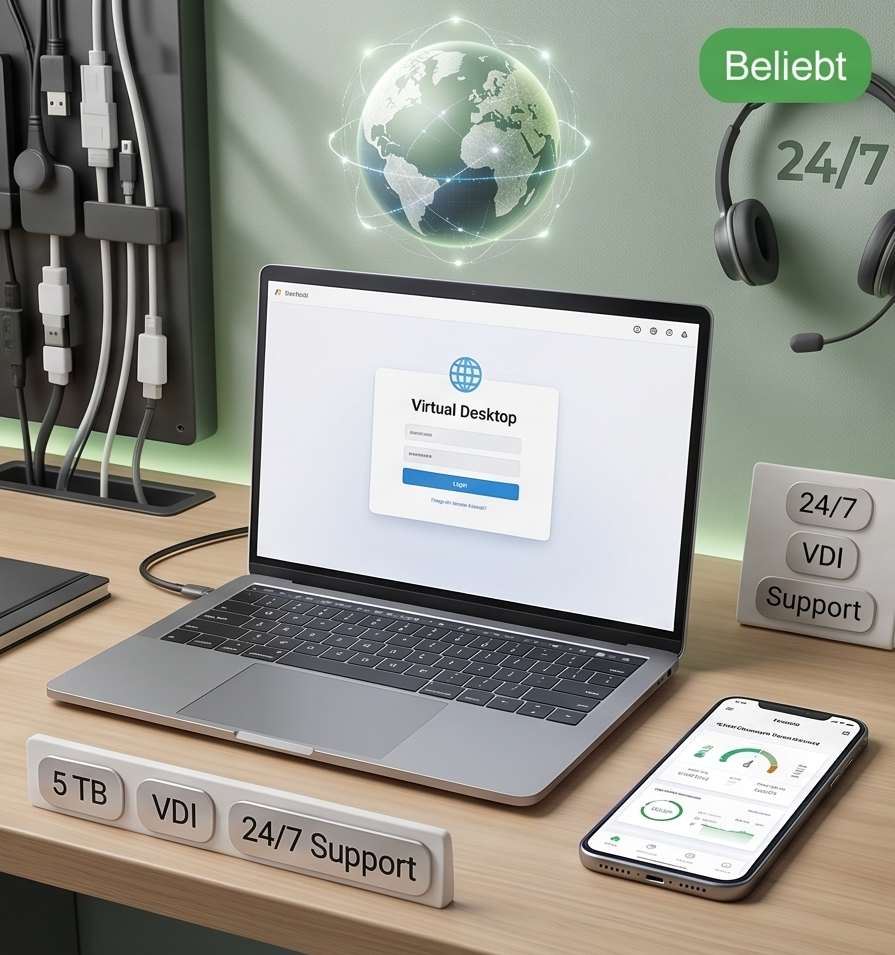
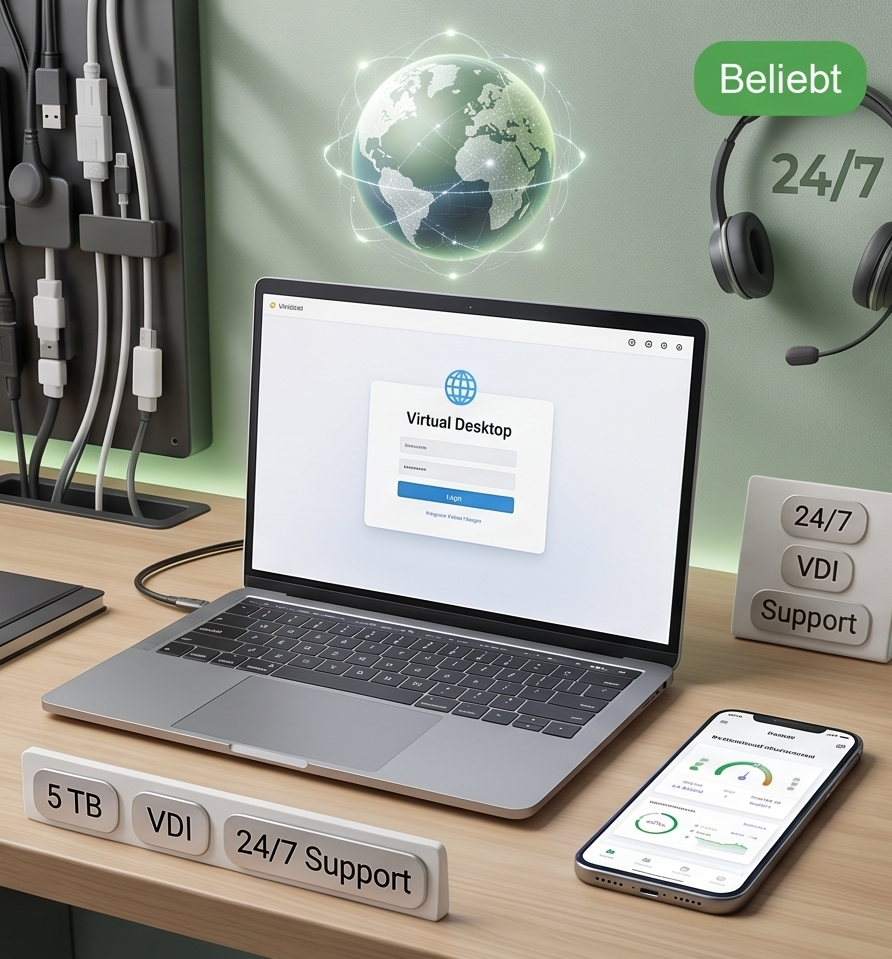
passt

diff --git a/Produkte.html b/Produkte.html
@@ -80,7 +80,7 @@
         <h2 class="category-title" id="server">🖥 Server &amp; Hardware</h2>
         <div class="catalog-grid" data-category="server">
             <div class="catalog-card">
-                <div class="card-image">🖥<span class="card-badge top">Bestseller</span></div>
+                <div class="card-image"><img src="Images/Greenserver.png" alt="GreenServer S1"><span class="card-badge top">Bestseller</span></div>
                 <div class="card-body">
                     <h3>GreenServer S1</h3>
                     <p>Energieeffizienter Einstiegsserver für kleine Unternehmen. Zertifiziert nach Energy Star, 40 %
@@ -96,7 +96,7 @@
                 </div>
             </div>
             <div class="catalog-card">
-                <div class="card-image">🗄<span class="card-badge eco">ECO</span></div>
+                <div class="card-image"><img src="Images/GreenServerPro.png" alt="GreenServer Pro X"><span class="card-badge eco">ECO</span></div>
                 <div class="card-body">
                     <h3>GreenServer Pro X</h3>
                     <p>Hochleistungsserver mit Flüssigkühlung. Server-Abwärme wird direkt in das Gewächshaussystem
@@ -112,7 +112,7 @@
                 </div>
             </div>
             <div class="catalog-card">
-                <div class="card-image">♻<span class="card-badge neu">Neu</span></div>
+                <div class="card-image"><img src="Images/Refurbished reck set.png" alt="Refurbished Rack-Set"><span class="card-badge neu">Neu</span></div>
                 <div class="card-body">
                     <h3>Refurbished Rack-Set</h3>
                     <p>Generalüberholte Enterprise-Hardware aus zweiter Hand. Vollständig getestet, 2 Jahre Garantie –
@@ -133,7 +133,7 @@
         <h2 class="category-title" id="cloud">☁ Cloud-Lösungen</h2>
         <div class="catalog-grid" data-category="cloud">
             <div class="catalog-card">
-                <div class="card-image">☁</div>
+                <div class="card-image"><img src="Images/Green_Cloud_Server.png" alt="GreenCloud Starter"></div>
                 <div class="card-body">
                     <h3>GreenCloud Starter</h3>
                     <p>Einstiegspaket für KMUs: 500 GB sicherer Cloud-Speicher, tägliche Backups, betrieben mit 100 %
@@ -149,7 +149,7 @@
                 </div>
             </div>
             <div class="catalog-card">
-                <div class="card-image">🌐<span class="card-badge top">Beliebt</span></div>
+                <div class="card-image"><img src="Images/GreenCloudBusiness.png" alt="GreenCloud Business"><span class="card-badge top">Beliebt</span></div>
                 <div class="card-body">
                     <h3>GreenCloud Business</h3>
                     <p>Skalierbarer Cloud-Workspace für mittelständische Unternehmen: 5 TB Speicher, virtuelle Desktops,
@@ -164,7 +164,7 @@
                 </div>
             </div>
             <div class="catalog-card">
-                <div class="card-image">🔒</div>
+                <div class="card-image"><img src="Images/SecureCloud.png" alt="SecureCloud Enterprise"></div>
                 <div class="card-body">
                     <h3>SecureCloud Enterprise</h3>
                     <p>Private-Cloud-Lösung für Großunternehmen mit höchsten Sicherheitsanforderungen. ISO 27001
@@ -184,7 +184,7 @@
         <h2 class="category-title" id="beratung">💼 Beratung &amp; Services</h2>
         <div class="catalog-grid" data-category="beratung">
             <div class="catalog-card">
-                <div class="card-image">📊</div>
+                <div class="card-image"><img src="Images/green_It_Audit.png" alt="Green-IT Audit"></div>
                 <div class="card-body">
                     <h3>Green-IT Audit</h3>
                     <p>Vollständige Analyse Ihrer bestehenden IT-Infrastruktur. Wir zeigen Einsparpotenziale auf und
@@ -200,7 +200,7 @@
                 </div>
             </div>
             <div class="catalog-card">
-                <div class="card-image">🛠<span class="card-badge neu">Neu</span></div>
+                <div class="card-image"><img src="Images/Implementierungspaket.png" alt="Implementierungspaket"><span class="card-badge neu">Neu</span></div>
                 <div class="card-body">
                     <h3>Implementierungspaket</h3>
                     <p>Wir setzen Ihre Green-IT-Strategie um: Installation, Konfiguration und Schulung Ihrer
@@ -216,7 +216,7 @@
                 </div>
             </div>
             <div class="catalog-card">
-                <div class="card-image">📈</div>
+                <div class="card-image"><img src="Images/Engenier_Monitoring.png" alt="Energie-Monitoring"></div>
                 <div class="card-body">
                     <h3>Energie-Monitoring Abo</h3>
                     <p>Laufende Überwachung und Optimierung Ihres Energieverbrauchs. Monatliche Reports, automatische
@@ -237,7 +237,7 @@
         <h2 class="category-title" id="bio">🌱 Bio-Lebensmittel</h2>
         <div class="catalog-grid" data-category="bio">
             <div class="catalog-card">
-                <div class="card-image">🥬<span class="card-badge eco">ECO</span></div>
+                <div class="card-image"><img src="Images/Saisonbox.png" alt="Hydroponik-Salate"><span class="card-badge eco">ECO</span></div>
                 <div class="card-body">
                     <h3>Hydroponik-Salate (Saisonbox)</h3>
                     <p>Frische Blattsalatmischung aus unserem serverwärmebeheizten Gewächshaus. Wöchentliche Lieferung,
@@ -253,7 +253,7 @@
                 </div>
             </div>
             <div class="catalog-card">
-                <div class="card-image">🌿<span class="card-badge top">Bestseller</span></div>
+                <div class="card-image"><img src="Images/Kräuter-Abo.png" alt="Kräuter-Abo Premium"><span class="card-badge top">Bestseller</span></div>
                 <div class="card-body">
                     <h3>Kräuter-Abo Premium</h3>
                     <p>Basilikum, Minze, Petersilie & Co. – frisch geschnitten, ganzjährig verfügbar dank Vertical
@@ -269,7 +269,7 @@
                 </div>
             </div>
             <div class="catalog-card">
-                <div class="card-image">🎁</div>
+                <div class="card-image"><img src="Images/FirmenAbo Großpackung.png" alt="Firmen-Abo Großpackung"></div>
                 <div class="card-body">
                     <h3>Firmen-Abo Großpackung</h3>
                     <p>Regelmäßige Lieferung frischer Bio-Produkte direkt an Ihr Unternehmen. Flexible Mengen,

diff --git a/Beratung.html b/Beratung.html
@@ -67,22 +67,22 @@
         <section class="vorteile-section">
             <div class="vorteile-grid">
                 <div class="vorteil-card">
-                    <span class="vorteil-icon">🌱</span>
+                    <span class="vorteil-icon"><img src="Images/NachhaltigeIT.png" alt="Nachhaltige IT"></span>
                     <h3>Nachhaltige IT</h3>
                     <p>Wir zeigen Ihnen, wie Sie Ihren CO₂-Fußabdruck mit grüner IT deutlich reduzieren.</p>
                 </div>
                 <div class="vorteil-card">
-                    <span class="vorteil-icon">💡</span>
+                    <span class="vorteil-icon"><img src="Images/IndividuelleLösungen.png" alt="Individuelle Lösungen"></span>
                     <h3>Individuelle Lösungen</h3>
                     <p>Jede Beratung ist auf Ihr Unternehmen zugeschnitten – keine Pauschalangebote.</p>
                 </div>
                 <div class="vorteil-card">
-                    <span class="vorteil-icon">📊</span>
+                    <span class="vorteil-icon"><img src="Images/Betriebskosten_gesenkt.png" alt="Kostenersparnis"></span>
                     <h3>Kostenersparnis</h3>
                     <p>Energieeffiziente Systeme senken Ihre Betriebskosten dauerhaft.</p>
                 </div>
                 <div class="vorteil-card">
-                    <span class="vorteil-icon">🤝</span>
+                    <span class="vorteil-icon"><img src="Images/Persönlich_kompetent.png" alt="Persönlich & kompetent"></span>
                     <h3>Persönlich & kompetent</h3>
                     <p>Unser Team steht Ihnen von der Planung bis zur Umsetzung zur Seite.</p>
                 </div>

diff --git a/Index.html b/Index.html
@@ -137,7 +137,7 @@
         <!-- MISSION -->
         <section class="mission-statement">
             <div class="mission-inner">
-                <div class="mission-icon-large">🌿</div>
+                <div class="mission-icon-large"><img src="Images/Unsere Mission.png" alt="Unsere Mission" style="width:90px;height:90px;object-fit:cover;border-radius:50%;box-shadow:0 4px 12px rgba(0,0,0,0.15);"></div>
                 <h2>Unsere Mission</h2>
                 <p>Wir unterstützen Unternehmen dabei, ihre IT-Infrastruktur nachhaltig zu gestalten.
                    Die IT-Branche ist ein Schlüsselhebel für den Klimaschutz – und wir nutzen ihn.</p>

diff --git a/produkte.css b/produkte.css
@@ -138,3 +138,17 @@ body {
     background-color: #1b5e20;
     text-decoration: none;
 }
+
+/* Produktkarten-Bilder */
+.card-image:has(img) {
+    padding: 0;
+    font-size: 0;
+}
+
+.card-image img {
+    width: 100%;
+    height: 180px;
+    object-fit: cover;
+    display: block;
+    border-radius: 8px 8px 0 0;
+}

diff --git a/beratung.css b/beratung.css
@@ -78,6 +78,16 @@
     margin-bottom: 12px;
 }
 
+.vorteil-icon img {
+    width: 72px;
+    height: 72px;
+    object-fit: cover;
+    border-radius: 50%;
+    display: block;
+    margin: 0 auto 4px;
+    box-shadow: 0 2px 8px rgba(0,0,0,0.10);
+}
+
 .vorteil-card h3 {
     color: #1b5e20;
     font-size: 1rem;
